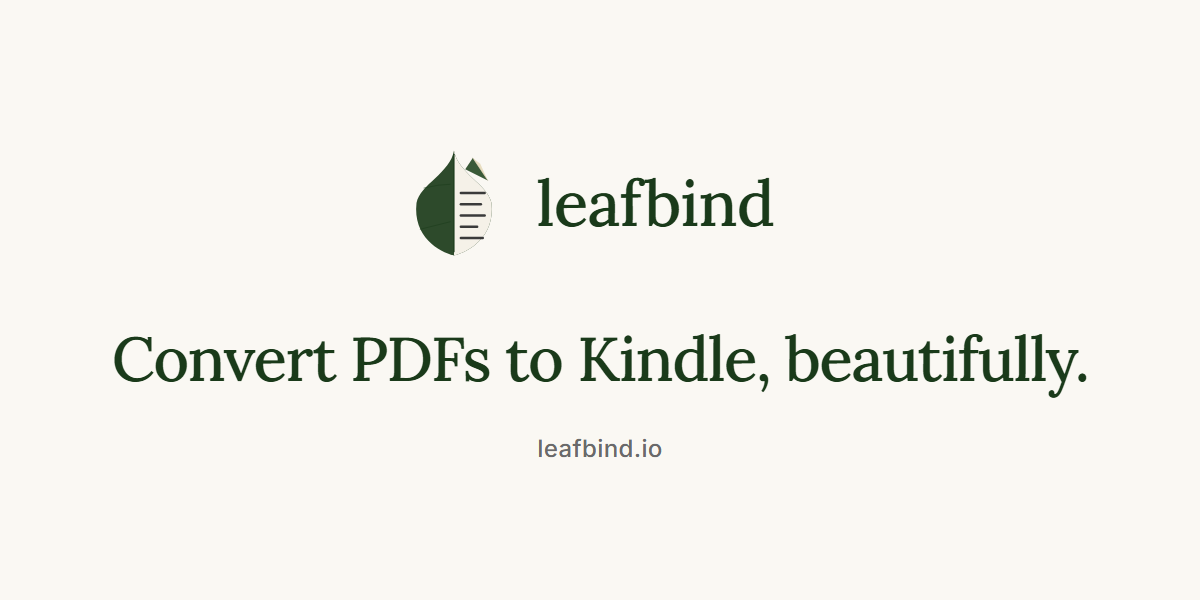
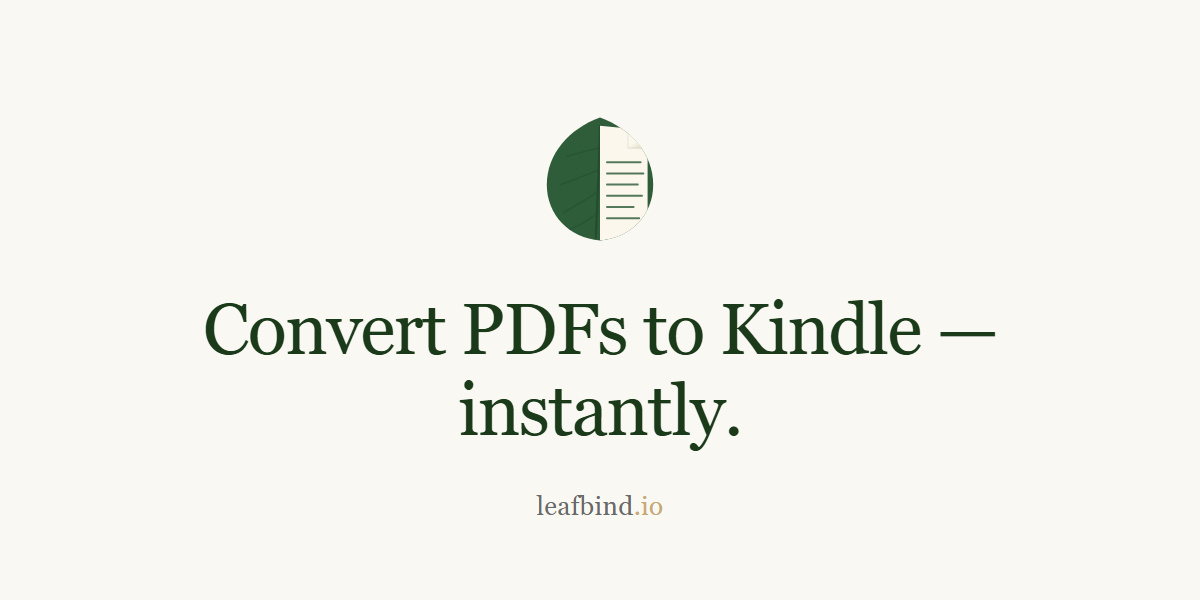
fix(EB-239): adopt physically-correct page-curl geometry (inward fold)
Replace the outward-triangle page-curl in the leafbind logo with the
physically-correct inward-fold geometry from the Claude Design handoff
(logos.jsx).  The top-right corner is now *cut out* of the page, revealing
the leaf green underneath; the reflected flap triangle A(70,14)–B(84,28)–
C'(70,28) is drawn on top in back-of-paper cream (#e0d8c0) with a
linearGradient (lbCurlShade) fading from LB_PAPER to LB_PAPER_BACK.

Changes:
- app/icon.svg: new 100×100 viewBox; rounder leaf silhouette, cut-out
  corner, six text-ruling lines, gradient flap, crease + outline strokes
- components/Logo.tsx: LeafGlyphPaths rewritten to match icon.svg exactly;
  accepts gradId/clipId props to avoid duplicate SVG id collisions; glyph
  viewBox updated 64→100; full-lockup viewBox updated 220×64→340×100
- app/convert/[slug]/opengraph-image.tsx: glyph paths updated to match
  (Satori-safe: no <defs>/<linearGradient>; solid #e0d8c0 for flap)
- Regenerated rasters: favicon.ico (16/32/48), apple-icon.png (180×180),
  opengraph-image.png (1200×630), twitter-image.png (1200×600)
- docs/visual-review/EB-239/: screenshot evidence at 16/32/64px + OG PNG

Build: npm run build passes clean (TypeScript OK, token drift guard OK).
Source of truth: C:\Users\Joe\Downloads\Leafbind\design_handoff_leafbind\logos.jsx

diff --git a/web_service/frontend/components/Logo.tsx b/web_service/frontend/components/Logo.tsx
@@ -8,13 +8,14 @@ export function Logo({ className, variant = "full" }: LogoProps) {
     return (
       <svg
         xmlns="http://www.w3.org/2000/svg"
-        viewBox="0 0 64 64"
+        viewBox="0 0 100 100"
         role="img"
         aria-label="leafbind"
+        fill="none"
         className={className}
       >
         <title>leafbind</title>
-        <LeafGlyphPaths />
+        <LeafGlyphPaths gradId="lbCurlShade_glyph" clipId="lbLeafClip_glyph" />
       </svg>
     );
   }
@@ -22,21 +23,22 @@ export function Logo({ className, variant = "full" }: LogoProps) {
   return (
     <svg
       xmlns="http://www.w3.org/2000/svg"
-      viewBox="0 0 220 64"
+      viewBox="0 0 340 100"
       role="img"
       aria-label="leafbind"
+      fill="none"
       className={className}
     >
       <title>leafbind</title>
-      <LeafGlyphPaths />
+      <LeafGlyphPaths gradId="lbCurlShade_full" clipId="lbLeafClip_full" />
       <text
-        x="76"
-        y="44"
+        x="116"
+        y="68"
         fontFamily="var(--font-lora), Georgia, serif"
-        fontSize="34"
+        fontSize="53"
         fontWeight="500"
         fill="currentColor"
-        letterSpacing="-0.5"
+        letterSpacing="-0.8"
       >
         leafbind
       </text>
@@ -44,28 +46,79 @@ export function Logo({ className, variant = "full" }: LogoProps) {
   );
 }
 
-function LeafGlyphPaths() {
+function LeafGlyphPaths({ gradId, clipId }: { gradId: string; clipId: string }) {
   return (
     <>
+      <defs>
+        {/* Gradient for folded-flap: paper face fading to back-of-paper tone */}
+        <linearGradient id={gradId} x1="0.15" y1="0" x2="0.85" y2="1">
+          <stop offset="0"    stopColor="#fbf7ec" />
+          <stop offset="0.55" stopColor="#fbf7ec" />
+          <stop offset="1"    stopColor="#e0d8c0" />
+        </linearGradient>
+        {/* Clip to leaf silhouette so page/veins never bleed outside */}
+        <clipPath id={clipId}>
+          <path d="M50 6 C72 14, 88 32, 88 54 C88 76, 72 92, 50 94 C28 92, 12 76, 12 54 C12 32, 28 14, 50 6 Z" />
+        </clipPath>
+      </defs>
+
+      {/* Leaf body — rounder Claude Design silhouette */}
       <path
-        d="M 32 4 C 34 16 50 22 52 32 C 54 50 40 58 32 60 C 24 58 10 50 12 32 C 14 22 30 16 32 4 Z"
-        fill="#2D4A2B"
+        d="M50 6 C72 14, 88 32, 88 54 C88 76, 72 92, 50 94 C28 92, 12 76, 12 54 C12 32, 28 14, 50 6 Z"
+        fill="#2f5d3a"
       />
-      <path
-        d="M 32 4 C 34 16 50 22 52 32 C 54 50 40 58 32 60 L 32 4 Z"
-        fill="#F5F1E8"
-      />
-      <path d="M 42 8 L 50 20 L 38 14 Z" fill="#3a5a38" />
-      <path d="M 42 8 L 50 20 L 46 11 Z" fill="#E8DEC1" />
-      <line x1="42" y1="8" x2="50" y2="20" stroke="#A89A75" strokeWidth="0.3" strokeLinecap="round" opacity="0.6" />
-      <rect x="35" y="26" width="14" height="1.3" rx="0.65" fill="#3a3a3a" />
-      <rect x="35" y="32" width="12" height="1.3" rx="0.65" fill="#3a3a3a" />
-      <rect x="35" y="38" width="14" height="1.3" rx="0.65" fill="#3a3a3a" />
-      <rect x="35" y="44" width="10" height="1.3" rx="0.65" fill="#3a3a3a" />
-      <rect x="35" y="50" width="13" height="1.3" rx="0.65" fill="#3a3a3a" />
-      <line x1="32" y1="6" x2="32" y2="58" stroke="#1a3a1a" strokeWidth="0.6" strokeLinecap="round" />
-      <path d="M 30 22 Q 24 22 16 24" stroke="#1a3a1a" strokeWidth="0.5" fill="none" strokeLinecap="round" opacity="0.55" />
-      <path d="M 30 42 Q 22 44 14 46" stroke="#1a3a1a" strokeWidth="0.5" fill="none" strokeLinecap="round" opacity="0.55" />
+
+      <g clipPath={`url(#${clipId})`}>
+        {/* Central vein (drawn before page so hidden under paper) */}
+        <path
+          d="M50 12 Q49 50, 47 92"
+          stroke="#1f3f27"
+          strokeWidth="1.6"
+          strokeLinecap="round"
+          opacity="0.55"
+        />
+        {/* Side veins on the green half */}
+        <g stroke="#1f3f27" strokeWidth="0.9" strokeLinecap="round" opacity="0.32">
+          <path d="M49 28 Q40 30, 26 34" />
+          <path d="M48 44 Q38 48, 22 54" />
+          <path d="M47 60 Q38 66, 24 74" />
+          <path d="M46 76 Q38 82, 28 86" />
+        </g>
+
+        {/* Page body: right half with top-right corner cut out along the fold hinge.
+            The missing triangle (above hinge AB) reveals leaf green — physically correct. */}
+        <path d="M50 12 L70 14 L84 28 L84 90 L50 94 Z" fill="#fbf7ec" />
+
+        {/* Text ruling on the still-flat page section */}
+        <g stroke="#2f5d3a" strokeWidth="1.4" strokeLinecap="round" opacity="0.82">
+          <line x1="55" y1="38" x2="79" y2="38" />
+          <line x1="55" y1="46" x2="81" y2="46" />
+          <line x1="55" y1="54" x2="77" y2="54" />
+          <line x1="55" y1="62" x2="80" y2="62" />
+          <line x1="55" y1="70" x2="74" y2="70" />
+          <line x1="55" y1="78" x2="78" y2="78" />
+        </g>
+
+        {/* Folded flap: triangle A(70,14) B(84,28) C'(70,28).
+            C'=(70,28) is original corner C=(84,14) reflected across hinge AB. */}
+        <path d={`M70 14 L84 28 L70 28 Z`} fill={`url(#${gradId})`} />
+        {/* Crease along the fold hinge */}
+        <path
+          d="M70 14 L84 28"
+          stroke="#1f3f27"
+          strokeWidth="0.7"
+          strokeLinecap="round"
+          opacity="0.4"
+        />
+        {/* Soft outline on the flap's free edges so it reads as raised */}
+        <path
+          d="M70 14 L70 28 L84 28"
+          stroke="#1f3f27"
+          strokeWidth="0.4"
+          strokeLinejoin="round"
+          opacity="0.18"
+        />
+      </g>
     </>
   );
 }

diff --git a/web_service/frontend/app/convert/[slug]/opengraph-image.tsx b/web_service/frontend/app/convert/[slug]/opengraph-image.tsx
@@ -35,62 +35,62 @@ export default async function Image({
           padding: '80px',
         }}
       >
-        {/* Leaf glyph inline — paths from components/Logo.tsx LeafGlyphPaths() */}
+        {/* Leaf glyph inline — geometry matches components/Logo.tsx LeafGlyphPaths().
+            Satori (ImageResponse) does not support <defs>/<linearGradient>/<clipPath>,
+            so gradient on the folded flap is replaced with a solid back-of-paper tone. */}
         <svg
           width="120"
           height="120"
-          viewBox="0 0 64 64"
+          viewBox="0 0 100 100"
           style={{ marginBottom: '40px', display: 'block' }}
         >
+          {/* Leaf body — rounder Claude Design silhouette */}
           <path
-            d="M 32 4 C 34 16 50 22 52 32 C 54 50 40 58 32 60 C 24 58 10 50 12 32 C 14 22 30 16 32 4 Z"
-            fill="#2D4A2B"
+            d="M50 6 C72 14, 88 32, 88 54 C88 76, 72 92, 50 94 C28 92, 12 76, 12 54 C12 32, 28 14, 50 6 Z"
+            fill="#2f5d3a"
           />
+          {/* Central vein */}
           <path
-            d="M 32 4 C 34 16 50 22 52 32 C 54 50 40 58 32 60 L 32 4 Z"
-            fill="#F5F1E8"
-          />
-          <path d="M 42 8 L 50 20 L 38 14 Z" fill="#3a5a38" />
-          <path d="M 42 8 L 50 20 L 46 11 Z" fill="#E8DEC1" />
-          <line
-            x1="42"
-            y1="8"
-            x2="50"
-            y2="20"
-            stroke="#A89A75"
-            strokeWidth="0.3"
-            strokeLinecap="round"
-            opacity="0.6"
-          />
-          <rect x="35" y="26" width="14" height="1.3" rx="0.65" fill="#3a3a3a" />
-          <rect x="35" y="32" width="12" height="1.3" rx="0.65" fill="#3a3a3a" />
-          <rect x="35" y="38" width="14" height="1.3" rx="0.65" fill="#3a3a3a" />
-          <rect x="35" y="44" width="10" height="1.3" rx="0.65" fill="#3a3a3a" />
-          <rect x="35" y="50" width="13" height="1.3" rx="0.65" fill="#3a3a3a" />
-          <line
-            x1="32"
-            y1="6"
-            x2="32"
-            y2="58"
-            stroke="#1a3a1a"
-            strokeWidth="0.6"
-            strokeLinecap="round"
-          />
-          <path
-            d="M 30 22 Q 24 22 16 24"
-            stroke="#1a3a1a"
-            strokeWidth="0.5"
-            fill="none"
+            d="M50 12 Q49 50, 47 92"
+            stroke="#1f3f27"
+            strokeWidth="1.6"
             strokeLinecap="round"
             opacity="0.55"
-          />
-          <path
-            d="M 30 42 Q 22 44 14 46"
-            stroke="#1a3a1a"
-            strokeWidth="0.5"
             fill="none"
+          />
+          {/* Side veins */}
+          <path d="M49 28 Q40 30, 26 34" stroke="#1f3f27" strokeWidth="0.9" strokeLinecap="round" opacity="0.32" fill="none" />
+          <path d="M48 44 Q38 48, 22 54" stroke="#1f3f27" strokeWidth="0.9" strokeLinecap="round" opacity="0.32" fill="none" />
+          <path d="M47 60 Q38 66, 24 74" stroke="#1f3f27" strokeWidth="0.9" strokeLinecap="round" opacity="0.32" fill="none" />
+          <path d="M46 76 Q38 82, 28 86" stroke="#1f3f27" strokeWidth="0.9" strokeLinecap="round" opacity="0.32" fill="none" />
+          {/* Page body: top-right corner cut out along fold hinge — leaf green shows through */}
+          <path d="M50 12 L70 14 L84 28 L84 90 L50 94 Z" fill="#fbf7ec" />
+          {/* Text ruling on the flat page section */}
+          <line x1="55" y1="38" x2="79" y2="38" stroke="#2f5d3a" strokeWidth="1.4" strokeLinecap="round" opacity="0.82" />
+          <line x1="55" y1="46" x2="81" y2="46" stroke="#2f5d3a" strokeWidth="1.4" strokeLinecap="round" opacity="0.82" />
+          <line x1="55" y1="54" x2="77" y2="54" stroke="#2f5d3a" strokeWidth="1.4" strokeLinecap="round" opacity="0.82" />
+          <line x1="55" y1="62" x2="80" y2="62" stroke="#2f5d3a" strokeWidth="1.4" strokeLinecap="round" opacity="0.82" />
+          <line x1="55" y1="70" x2="74" y2="70" stroke="#2f5d3a" strokeWidth="1.4" strokeLinecap="round" opacity="0.82" />
+          <line x1="55" y1="78" x2="78" y2="78" stroke="#2f5d3a" strokeWidth="1.4" strokeLinecap="round" opacity="0.82" />
+          {/* Folded flap: A(70,14) B(84,28) C'(70,28) — solid back-of-paper tone (no gradient in Satori) */}
+          <path d="M70 14 L84 28 L70 28 Z" fill="#e0d8c0" />
+          {/* Crease along the fold hinge */}
+          <path
+            d="M70 14 L84 28"
+            stroke="#1f3f27"
+            strokeWidth="0.7"
             strokeLinecap="round"
-            opacity="0.55"
+            opacity="0.4"
+            fill="none"
+          />
+          {/* Soft outline on flap free edges */}
+          <path
+            d="M70 14 L70 28 L84 28"
+            stroke="#1f3f27"
+            strokeWidth="0.4"
+            strokeLinejoin="round"
+            opacity="0.18"
+            fill="none"
           />
         </svg>
 